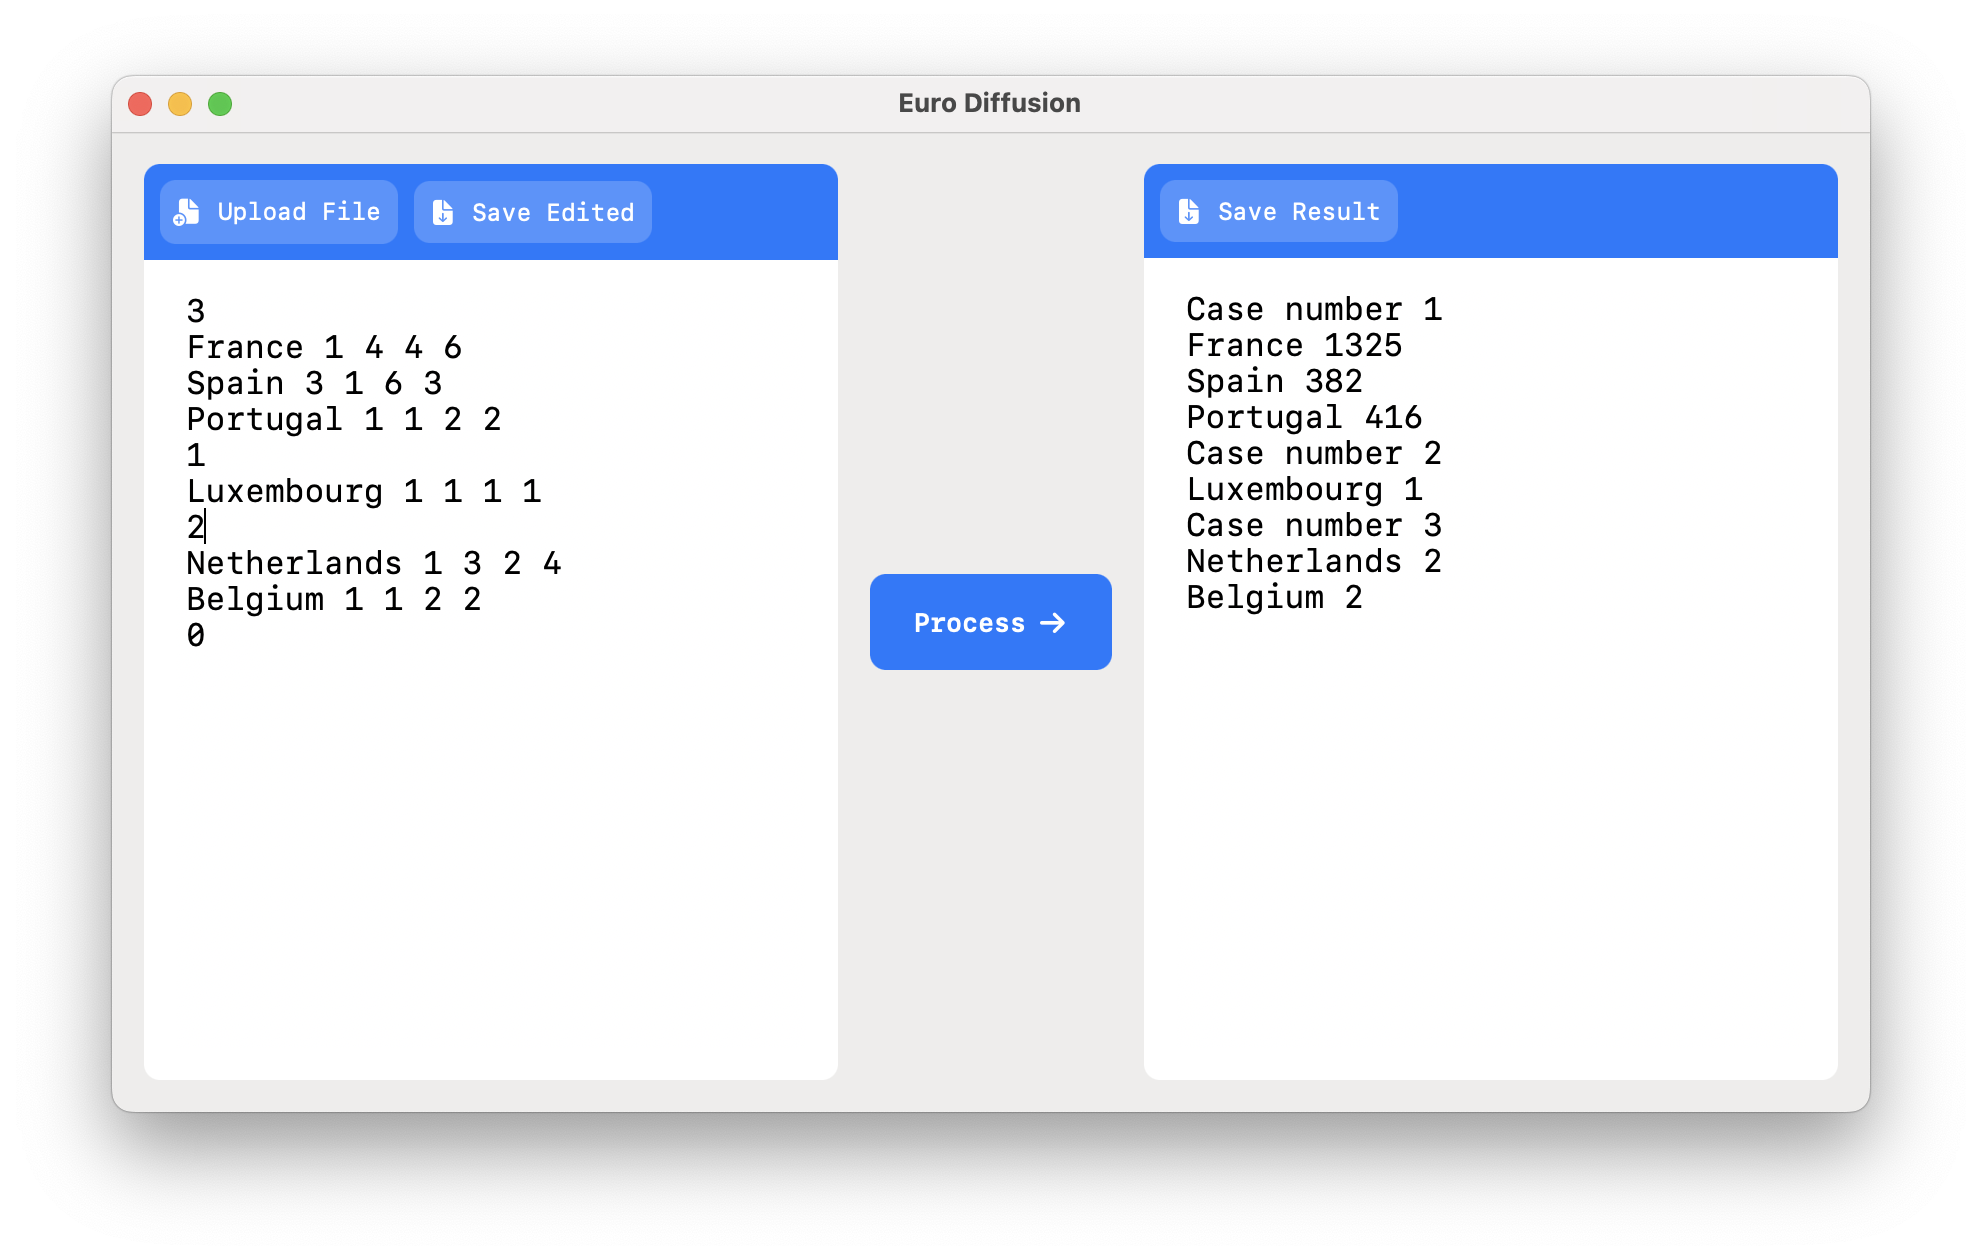
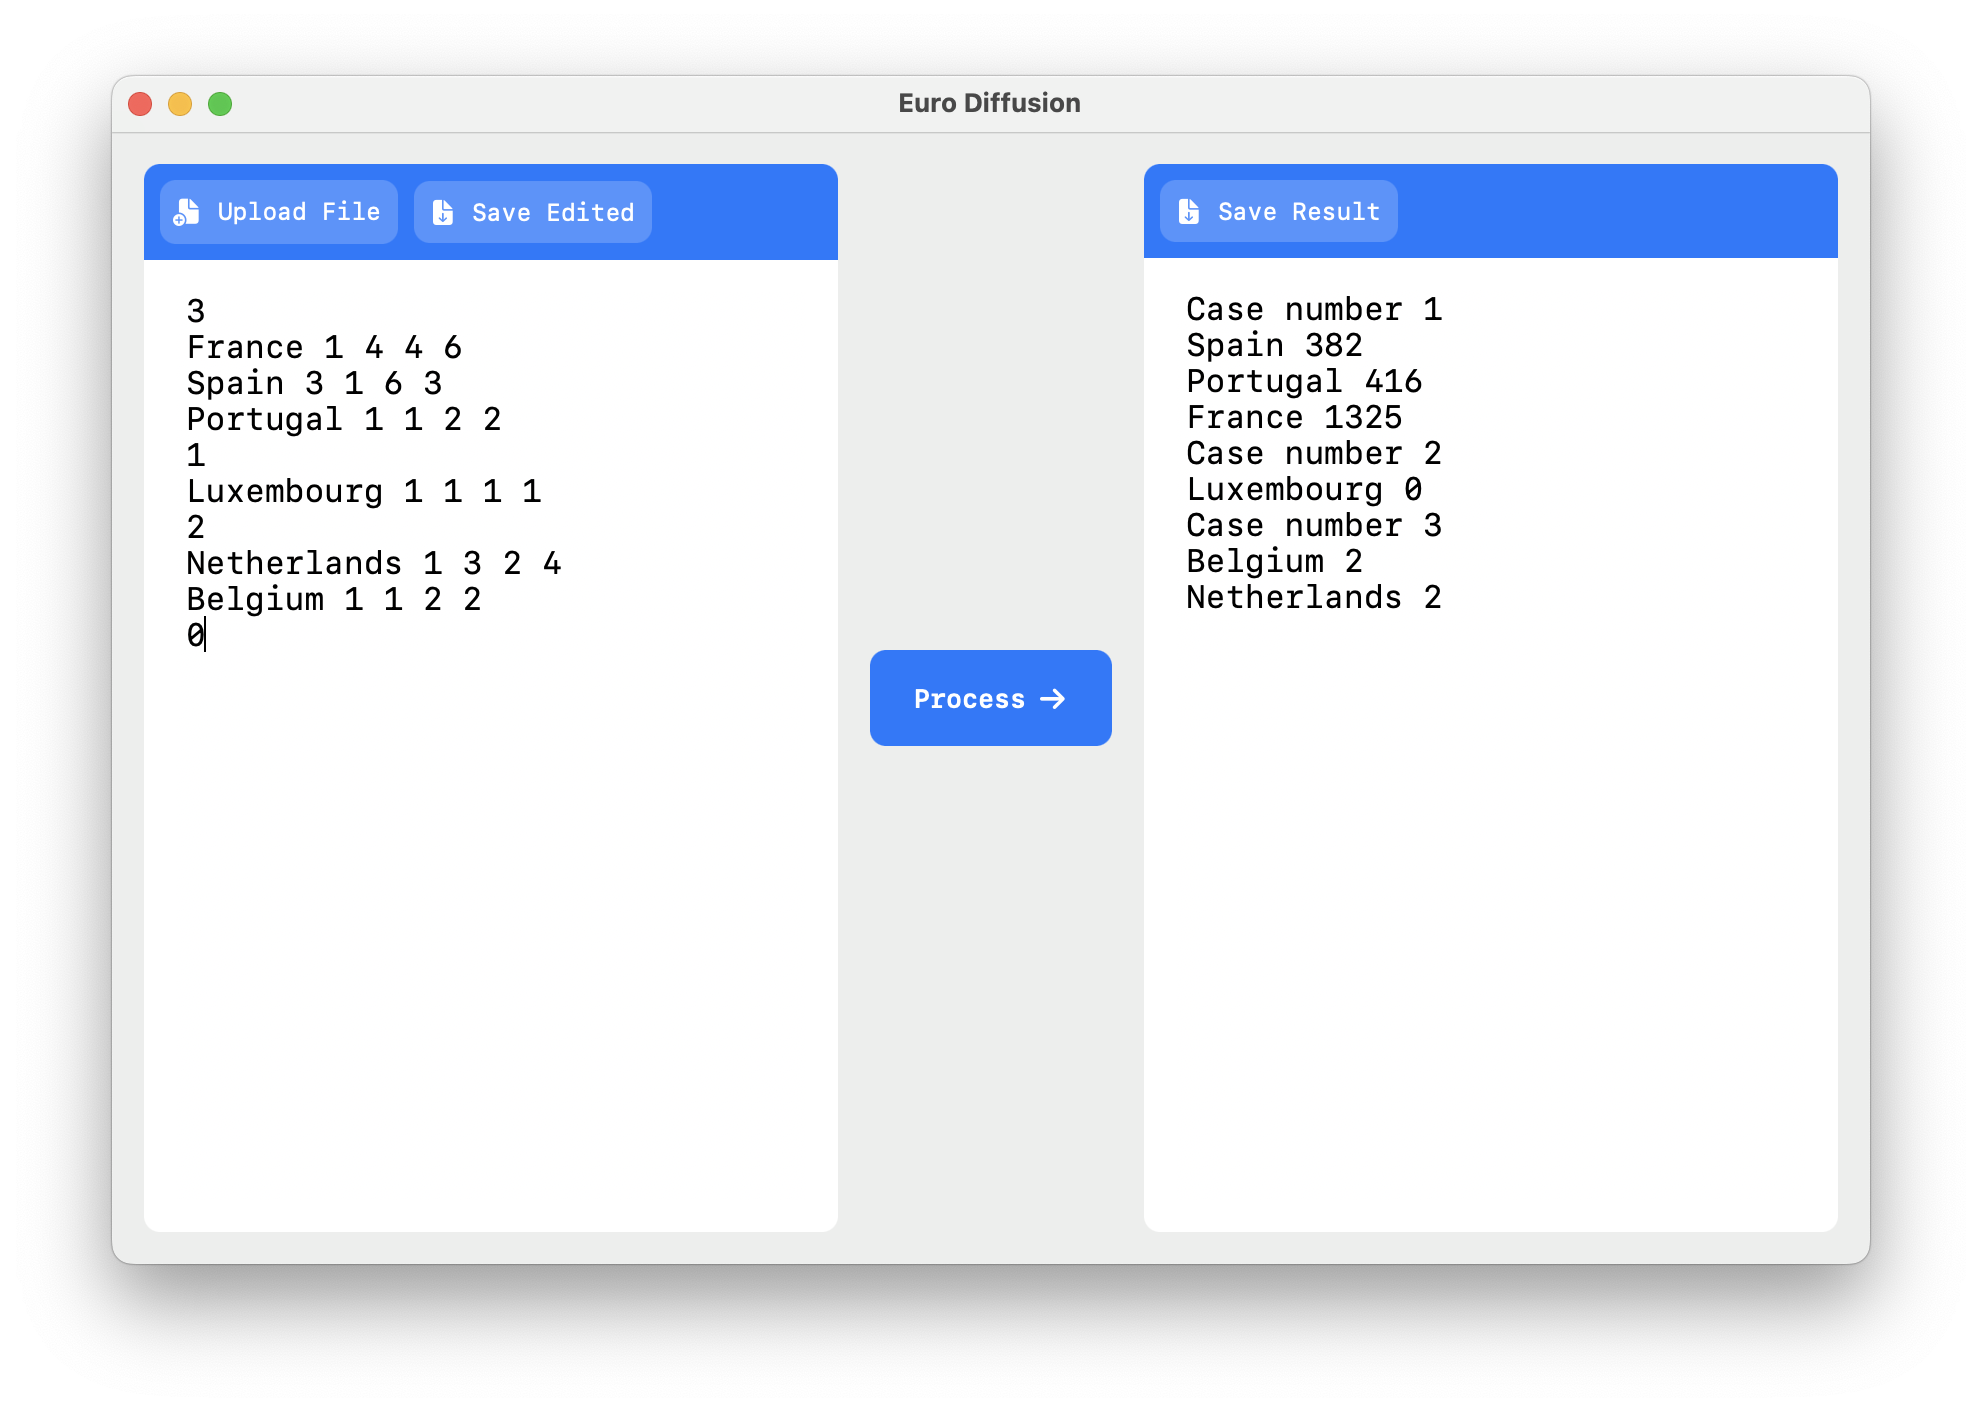
fix(results): Add sort of results

diff --git a/EuroDiffusion/Model/DiffusionManager.swift b/EuroDiffusion/Model/DiffusionManager.swift
@@ -7,19 +7,28 @@
 
 import Foundation
 
+/// A struct that stores the diffusion state for each country.
+class CountryDiffusionState {
+    let country: Country
+    var dayCompleted: Int
+    
+    init(country: Country, dayCompleted: Int = -1) {
+        self.country = country
+        self.dayCompleted = dayCompleted
+    }
+}
+
 /// Manages the diffusion simulation across cities in multiple countries.
 class DiffusionManager {
-    /// A tupple that stores the diffusion state for each country.
-    typealias State = (Country, Int)
     
     /// The current diffusion state.
-    var state: [State]
+    private var state: [CountryDiffusionState]
     
     /// The set of countries being simulated.
-    var countries = Set<Country>()
+    private var countries = Set<Country>()
     
     /// The set of cities in all countries.
-    var cities = Set<City>()
+    private var cities = Set<City>()
     
     /// A Boolean value indicating whether the simulation has completed for all countries.
     var isComplete: Bool {
@@ -33,8 +42,10 @@ class DiffusionManager {
         self.cities = Set(countries.flatMap(\.cities))
 
         self.state = countries
-            .reduce(into: [State]()) { result, current in
-                result.append((current, -1))
+            .reduce(into: [CountryDiffusionState]()) { result, current in
+                let state = CountryDiffusionState(country: current)
+
+                result += [state]
             }
         
         assignCityBalances()
@@ -42,7 +53,7 @@ class DiffusionManager {
     }
     
     /// Assigns initial balances to all cities in all countries.
-    func assignCityBalances() {
+    private func assignCityBalances() {
         for city in cities {
             city.balances = countries
                 .reduce(into: [Country.Name: Int]()) { result, country in
@@ -58,7 +69,7 @@ class DiffusionManager {
     }
     
     /// Assigns neighbouring cities to all cities in all countries.
-    func assignCityNeighbours() {
+    private func assignCityNeighbours() {
         var grid: [[City?]] = Array(
             repeating: Array(repeating: nil, count: DiffusionConfig.gridSize),
             count: DiffusionConfig.gridSize
@@ -84,7 +95,7 @@ class DiffusionManager {
     }
     
     /// Performs a single iteration of the diffusion simulation.
-    func diffuse() {
+    private func diffuse() {
         for city in cities {
             for balance in city.balances {
                 let transferAmount = Int(balance.value / DiffusionConfig.representativePortion)
@@ -109,26 +120,29 @@ class DiffusionManager {
     
     /// Runs the diffusion simulation until all countries have reached a complete state.
     /// - Returns: A `Result` dictionary indicating the number of iterations it took for each country to reach a complete state.
-    func runSimulation() -> [State] {
-        var iterator = 0
+    func runSimulation() -> [CountryDiffusionState] {
+        var iterator = 1
         
         guard countries.count > 1 else {
             if let first = countries.first {
-                return [(first, 1)]
+                return [CountryDiffusionState(country: first, dayCompleted: 0)]
             }
-            
+
             return []
         }
         
         while !isComplete && iterator <= 10_000 { // Resolve stuck loop.
             diffuse()
-            iterator += 1
             
-            for index in state.indices {
-                if state[index].0.isComplete && state[index].1 == -1 {
-                    state[index].1 = iterator
-                }
+            let completedInCurrentIteration = state.filter { countryState in
+                countryState.country.isComplete && countryState.dayCompleted == -1
             }
+            
+            for countryState in completedInCurrentIteration {
+                countryState.dayCompleted = iterator
+            }
+            
+            iterator += 1
         }
         
         return state

diff --git a/EuroDiffusion/Model/DiffusionCoder.swift b/EuroDiffusion/Model/DiffusionCoder.swift
@@ -74,7 +74,7 @@ struct DiffusionCoder {
     ///
     /// - Parameter results: A two-dimensional array of simulation results.
     /// - Returns: A string containing the encoded results.
-    func encode(results: [[DiffusionManager.State]]) -> String {
+    func encode(results: [[CountryDiffusionState]]) -> String {
         var resultingString = ""
         
         // Make sure results array is not empty (there were no errors in process)
@@ -85,10 +85,18 @@ struct DiffusionCoder {
         // Append each case's results to the resulting string
         for (caseNumber, result) in results.enumerated() {
             resultingString.append("Case number \(caseNumber + 1)\n")
+            
+            let sortedResult = result.sorted { lhs, rhs -> Bool in
+                if lhs.dayCompleted != rhs.dayCompleted {
+                    return lhs.dayCompleted < rhs.dayCompleted
+                } else {
+                    return lhs.country.name < rhs.country.name
+                }
+            }
 
             // Append each country's results for the current case to the resulting string
-            for (country, days) in result {
-                resultingString.append("\(country.name) \(days)\n")
+            for countryState in sortedResult {
+                resultingString.append("\(countryState.country.name) \(countryState.dayCompleted)\n")
             }
         }
         

diff --git a/EuroDiffusion/Model/EuroDiffusionViewModel.swift b/EuroDiffusion/Model/EuroDiffusionViewModel.swift
@@ -40,7 +40,7 @@ class EuroDiffusionViewModel: ObservableObject {
         }
         
         let group = DispatchGroup()
-        var results = Array(repeating: [DiffusionManager.State](), count: managers.count)
+        var results = Array(repeating: [CountryDiffusionState](), count: managers.count)
 
         // Run simulation asynchronously for each `DiffusionManager` in the array.
         for (index, manager) in managers.enumerated() {

diff --git a/README.md b/README.md
@@ -76,14 +76,14 @@ Belgium 1 1 2 2
 Output:
 ```
 Case number 1
-France 1325
 Spain 382
 Portugal 416
+France 1325
 Case number 2
-Luxembourg 1
+Luxembourg 0
 Case number 3
-Netherlands 2
 Belgium 2
+Netherlands 2
 ```
 
 # Screenshots
